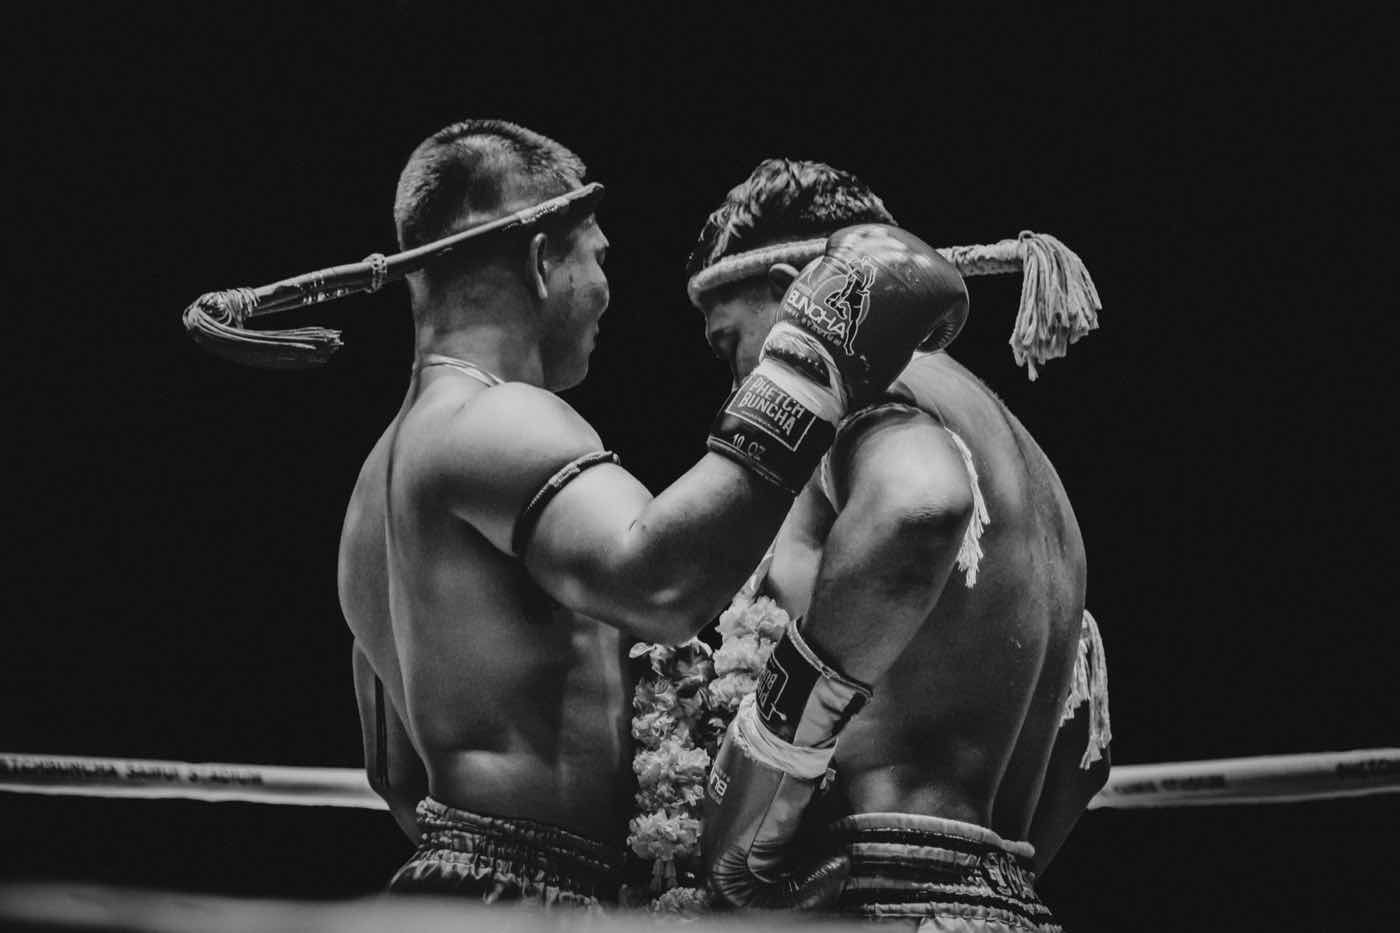
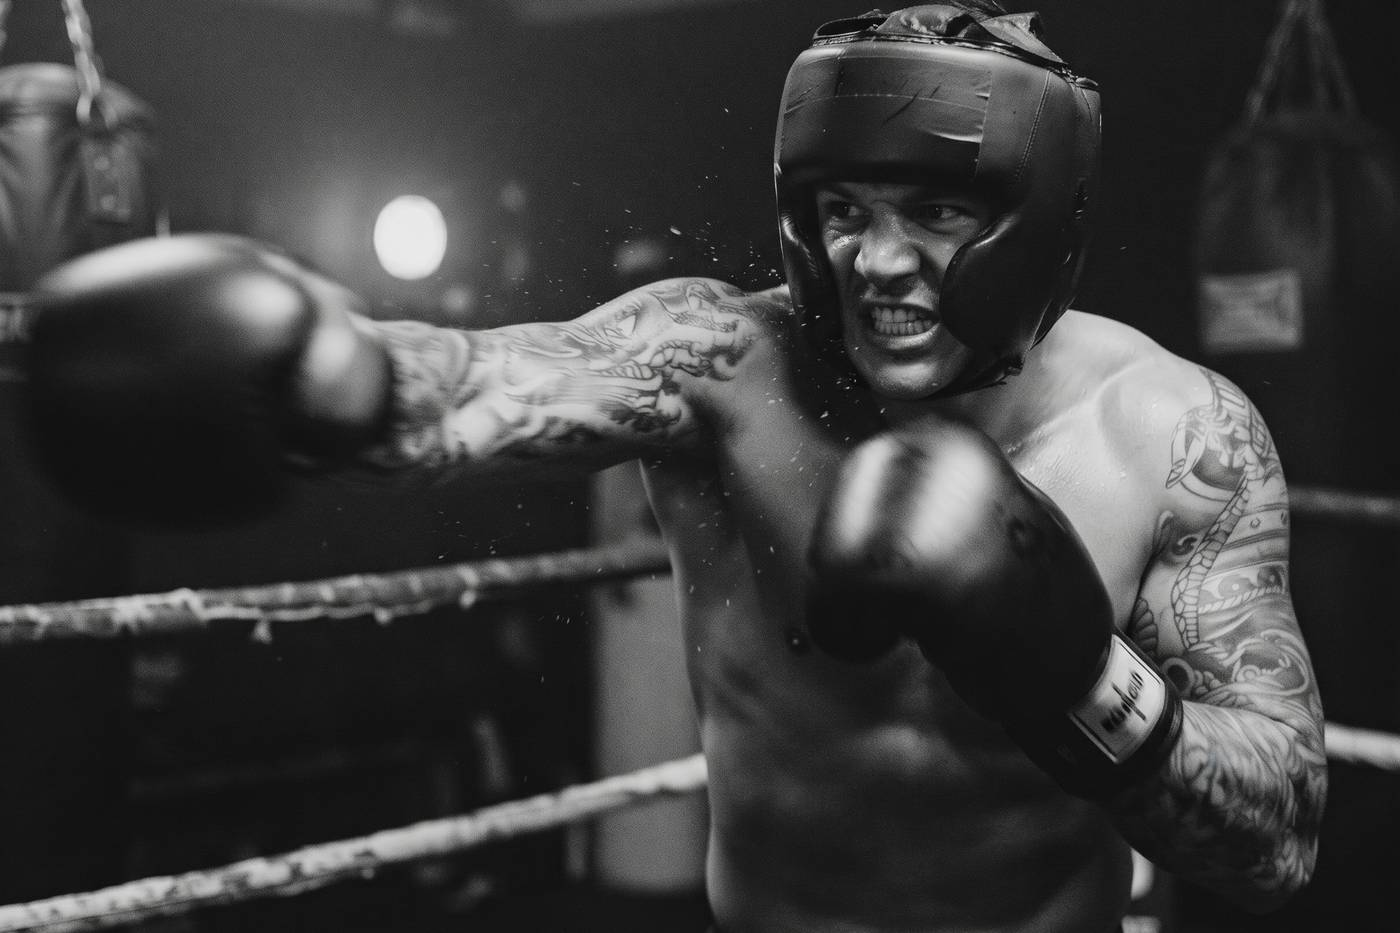
Eigene Bilder statt Pexels, Store-Screens fuer Combat Camp, KI-Plan und Strike Lab
- hero-bg und sparring.jpg durch eigene Gemini-Bilder ersetzt, Pexels-Hinweis aus dem Footer entfernt
- Screenshot-Platzhalter durch App-Store-Slides (DE/EN, WebP) ersetzt, Strike-Lab-Eintrag mit Bild

Claude-Session: https://claude.ai/code/session_012r6JXg4FgpH4Ub2FaiE5br

diff --git a/index.html b/index.html
@@ -793,8 +793,7 @@
           <div class="acc__body">
             <div class="acc__grid">
               <div><p data-i18n="f.camp.body">Combat Camp ist deine Technik-Akademie: kuratierte Kurse zu Grund- und Fortgeschrittenen-Techniken, klar strukturiert und Schritt für Schritt aufgebaut. Statt nur zu reagieren, siehst du genau, wie eine Technik korrekt aussieht — in eigens produzierten 3D-Lernvideos. Der Learning Path führt dich durch 7 Level, und du kannst jeden Meilenstein jederzeit auswählen.</p></div>
-              <div class="shot" data-i18n="shot.soon">Screenshot folgt</div>
-              <!-- Screenshot ersetzen: <img src="screenshots/combat_camp.png" alt="" style="width:100%;border-radius:18px;"> -->
+              <img src="/screenshots/combat_camp_de.webp" alt="Combat Camp Learning Path: 7 Level von Rookie bis Champion" width="640" height="1391" loading="lazy" decoding="async" style="width:100%;max-width:340px;border-radius:18px;justify-self:center" />
             </div>
           </div>
         </details>
@@ -874,6 +873,7 @@
           <div class="acc__body">
             <div class="acc__grid">
               <div><p data-i18n="f.strike.body">Mit Strike Lab analysiert die KI ein Video deiner Technik und gibt dir Feedback zur Ausführung. Du findest Strike Lab auch im Learning Path. Die Analyse ist Teil von Pro: In Free kannst du den Bereich öffnen und ansehen, die Analyse selbst startest du mit Pro. KI-Feedback ersetzt kein Coaching vor Ort.</p></div>
+              <img src="/screenshots/strike_lab_de.webp" alt="Strike Lab: Video aufnehmen und KI-Feedback zur Technik erhalten" width="640" height="1391" loading="lazy" decoding="async" style="width:100%;max-width:340px;border-radius:18px;justify-self:center" />
             </div>
           </div>
         </details>
@@ -915,8 +915,7 @@
           <div class="acc__body">
             <div class="acc__grid">
               <div><p data-i18n="f.plan.body">Beschreibe dein Ziel — „30 Minuten Muay Thai, Fokus Kondition, mittleres Level“ — und die KI baut dir daraus einen durchstrukturierten Trainingsplan, den du direkt durchlaufen kannst. Personalisiertes Coaching auf Knopfdruck. Der KI-Trainingsplan-Generator ist Teil von Pro.</p></div>
-              <div class="shot" data-i18n="shot.soon">Screenshot folgt</div>
-              <!-- Screenshot ersetzen: <img src="screenshots/ai_plan.png" alt="" style="width:100%;border-radius:18px;"> -->
+              <img src="/screenshots/ai_plan_de.webp" alt="KI-Trainingsplan in Combat Coach: vier Fragen, ein Plan" width="640" height="1391" loading="lazy" decoding="async" style="width:100%;max-width:340px;border-radius:18px;justify-self:center" />
             </div>
           </div>
         </details>
@@ -1003,7 +1002,7 @@
   <section class="showcase">
     <div class="container showcase__grid">
       <div class="showcase__media reveal">
-        <img src="/assets/sparring.jpg" alt="Zwei Kampfsportler beim Sparring im Boxgym"
+        <img src="/assets/sparring.jpg" alt="Boxerin schlägt auf den Boxsack im Gym"
              width="1200" height="800" loading="lazy" decoding="async" />
       </div>
       <div class="reveal">
@@ -1188,7 +1187,6 @@
 
       <div class="footer__bottom">
         <span data-i18n="foot.copyright">© 2026 Combat Coach. Alle Rechte vorbehalten.</span>
-        <span data-i18n="foot.photos">Fotos via <a href="https://www.pexels.com" style="color:var(--cream);">Pexels</a> (RDNE, Glebkrs)</span>
       </div>
     </div>
   </footer>
@@ -1345,7 +1343,6 @@
         "faq.q6": "Ist Combat Coach kostenlos?",
         "faq.a6": "Du kannst Combat Coach kostenlos nutzen: ComboSim, Sparring, Timer-Suite, Drills und der Learning Path stehen in Free zur Verfügung. Pro schaltet SmartCoach, Strike Lab, den KI-Trainingsplan-Generator und weitere Einstellungen frei. Preise zeigt die App vor dem Kauf an. Die Ratgeber und der Box-Timer im Browser sind kostenlos.",
         "foot.copyright": "© 2026 Combat Coach. Alle Rechte vorbehalten.",
-        "foot.photos": "Fotos via <a href=\"https://www.pexels.com\" style=\"color:var(--cream);\">Pexels</a> (RDNE, Glebkrs)"
       },
       en: {
         "hero.badge": "Coming Soon",
@@ -1494,7 +1491,6 @@
         "faq.q6": "Is Combat Coach free?",
         "faq.a6": "You can use Combat Coach for free: ComboSim, Sparring, the timer suite, drills and the Learning Path are available in Free. Pro unlocks SmartCoach, Strike Lab, the AI training plan generator and further settings. The app shows prices before you buy. The guides and the boxing timer in your browser are free.",
         "foot.copyright": "© 2026 Combat Coach. All rights reserved.",
-        "foot.photos": "Photos via <a href=\"https://www.pexels.com\" style=\"color:var(--cream);\">Pexels</a> (RDNE, Glebkrs)"
       }
     };
 

diff --git a/en/index.html b/en/index.html
@@ -811,8 +811,7 @@
           <div class="acc__body">
             <div class="acc__grid">
               <div><p data-i18n="f.camp.body">Combat Camp is your technique academy: curated courses on basic and advanced techniques, clearly structured and built step by step. Instead of just reacting, you see exactly how a technique is supposed to look — in custom-made 3D learning videos. The Learning Path takes you through 7 levels, and you can open any milestone at any time.</p></div>
-              <div class="shot" data-i18n="shot.soon">Screenshot coming soon</div>
-              <!-- Screenshot ersetzen: <img src="/screenshots/combat_camp.png" alt="" style="width:100%;border-radius:18px;"> -->
+              <img src="/screenshots/combat_camp_en.webp" alt="Combat Camp Learning Path: 7 levels from rookie to champion" width="640" height="1391" loading="lazy" decoding="async" style="width:100%;max-width:340px;border-radius:18px;justify-self:center" />
             </div>
           </div>
         </details>
@@ -892,6 +891,7 @@
           <div class="acc__body">
             <div class="acc__grid">
               <div><p data-i18n="f.strike.body">With Strike Lab the AI analyzes a video of your technique and gives you feedback on your form. You will also find Strike Lab inside the Learning Path. The analysis is part of Pro: in Free you can open and browse the area, and you start the analysis itself with Pro. AI feedback does not replace in-person coaching.</p></div>
+              <img src="/screenshots/strike_lab_en.webp" alt="Strike Lab: record a video and get AI feedback on your technique" width="640" height="1391" loading="lazy" decoding="async" style="width:100%;max-width:340px;border-radius:18px;justify-self:center" />
             </div>
           </div>
         </details>
@@ -933,8 +933,7 @@
           <div class="acc__body">
             <div class="acc__grid">
               <div><p data-i18n="f.plan.body">Describe your goal — “30 minutes Muay Thai, focus conditioning, intermediate level” — and the AI builds a fully structured training plan you can run right away. Personalized coaching at the push of a button. The AI training plan generator is part of Pro.</p></div>
-              <div class="shot" data-i18n="shot.soon">Screenshot coming soon</div>
-              <!-- Screenshot ersetzen: <img src="/screenshots/ai_plan.png" alt="" style="width:100%;border-radius:18px;"> -->
+              <img src="/screenshots/ai_plan_en.webp" alt="AI training plan in Combat Coach: four questions, one plan" width="640" height="1391" loading="lazy" decoding="async" style="width:100%;max-width:340px;border-radius:18px;justify-self:center" />
             </div>
           </div>
         </details>
@@ -1021,7 +1020,7 @@
   <section class="showcase">
     <div class="container showcase__grid">
       <div class="showcase__media reveal">
-        <img src="/assets/sparring.jpg" alt="Two fighters sparring in a boxing gym"
+        <img src="/assets/sparring.jpg" alt="Boxer hitting the heavy bag in a gym"
              width="1200" height="800" loading="lazy" decoding="async" />
       </div>
       <div class="reveal">
@@ -1206,7 +1205,6 @@
 
       <div class="footer__bottom">
         <span data-i18n="foot.copyright">© 2026 Combat Coach. All rights reserved.</span>
-        <span data-i18n="foot.photos">Photos via <a href="https://www.pexels.com" style="color:var(--cream);">Pexels</a> (RDNE, Glebkrs)</span>
       </div>
     </div>
   </footer>
@@ -1363,7 +1361,6 @@
         "faq.q6": "Ist Combat Coach kostenlos?",
         "faq.a6": "Du kannst Combat Coach kostenlos nutzen: ComboSim, Sparring, Timer-Suite, Drills und der Learning Path stehen in Free zur Verfügung. Pro schaltet SmartCoach, Strike Lab, den KI-Trainingsplan-Generator und weitere Einstellungen frei. Preise zeigt die App vor dem Kauf an. Die Ratgeber und der Box-Timer im Browser sind kostenlos.",
         "foot.copyright": "© 2026 Combat Coach. Alle Rechte vorbehalten.",
-        "foot.photos": "Fotos via <a href=\"https://www.pexels.com\" style=\"color:var(--cream);\">Pexels</a> (RDNE, Glebkrs)"
       },
       en: {
         "hero.badge": "Coming Soon",
@@ -1512,7 +1509,6 @@
         "faq.q6": "Is Combat Coach free?",
         "faq.a6": "You can use Combat Coach for free: ComboSim, Sparring, the timer suite, drills and the Learning Path are available in Free. Pro unlocks SmartCoach, Strike Lab, the AI training plan generator and further settings. The app shows prices before you buy. The guides and the boxing timer in your browser are free.",
         "foot.copyright": "© 2026 Combat Coach. All rights reserved.",
-        "foot.photos": "Photos via <a href=\"https://www.pexels.com\" style=\"color:var(--cream);\">Pexels</a> (RDNE, Glebkrs)"
       }
     };
 
